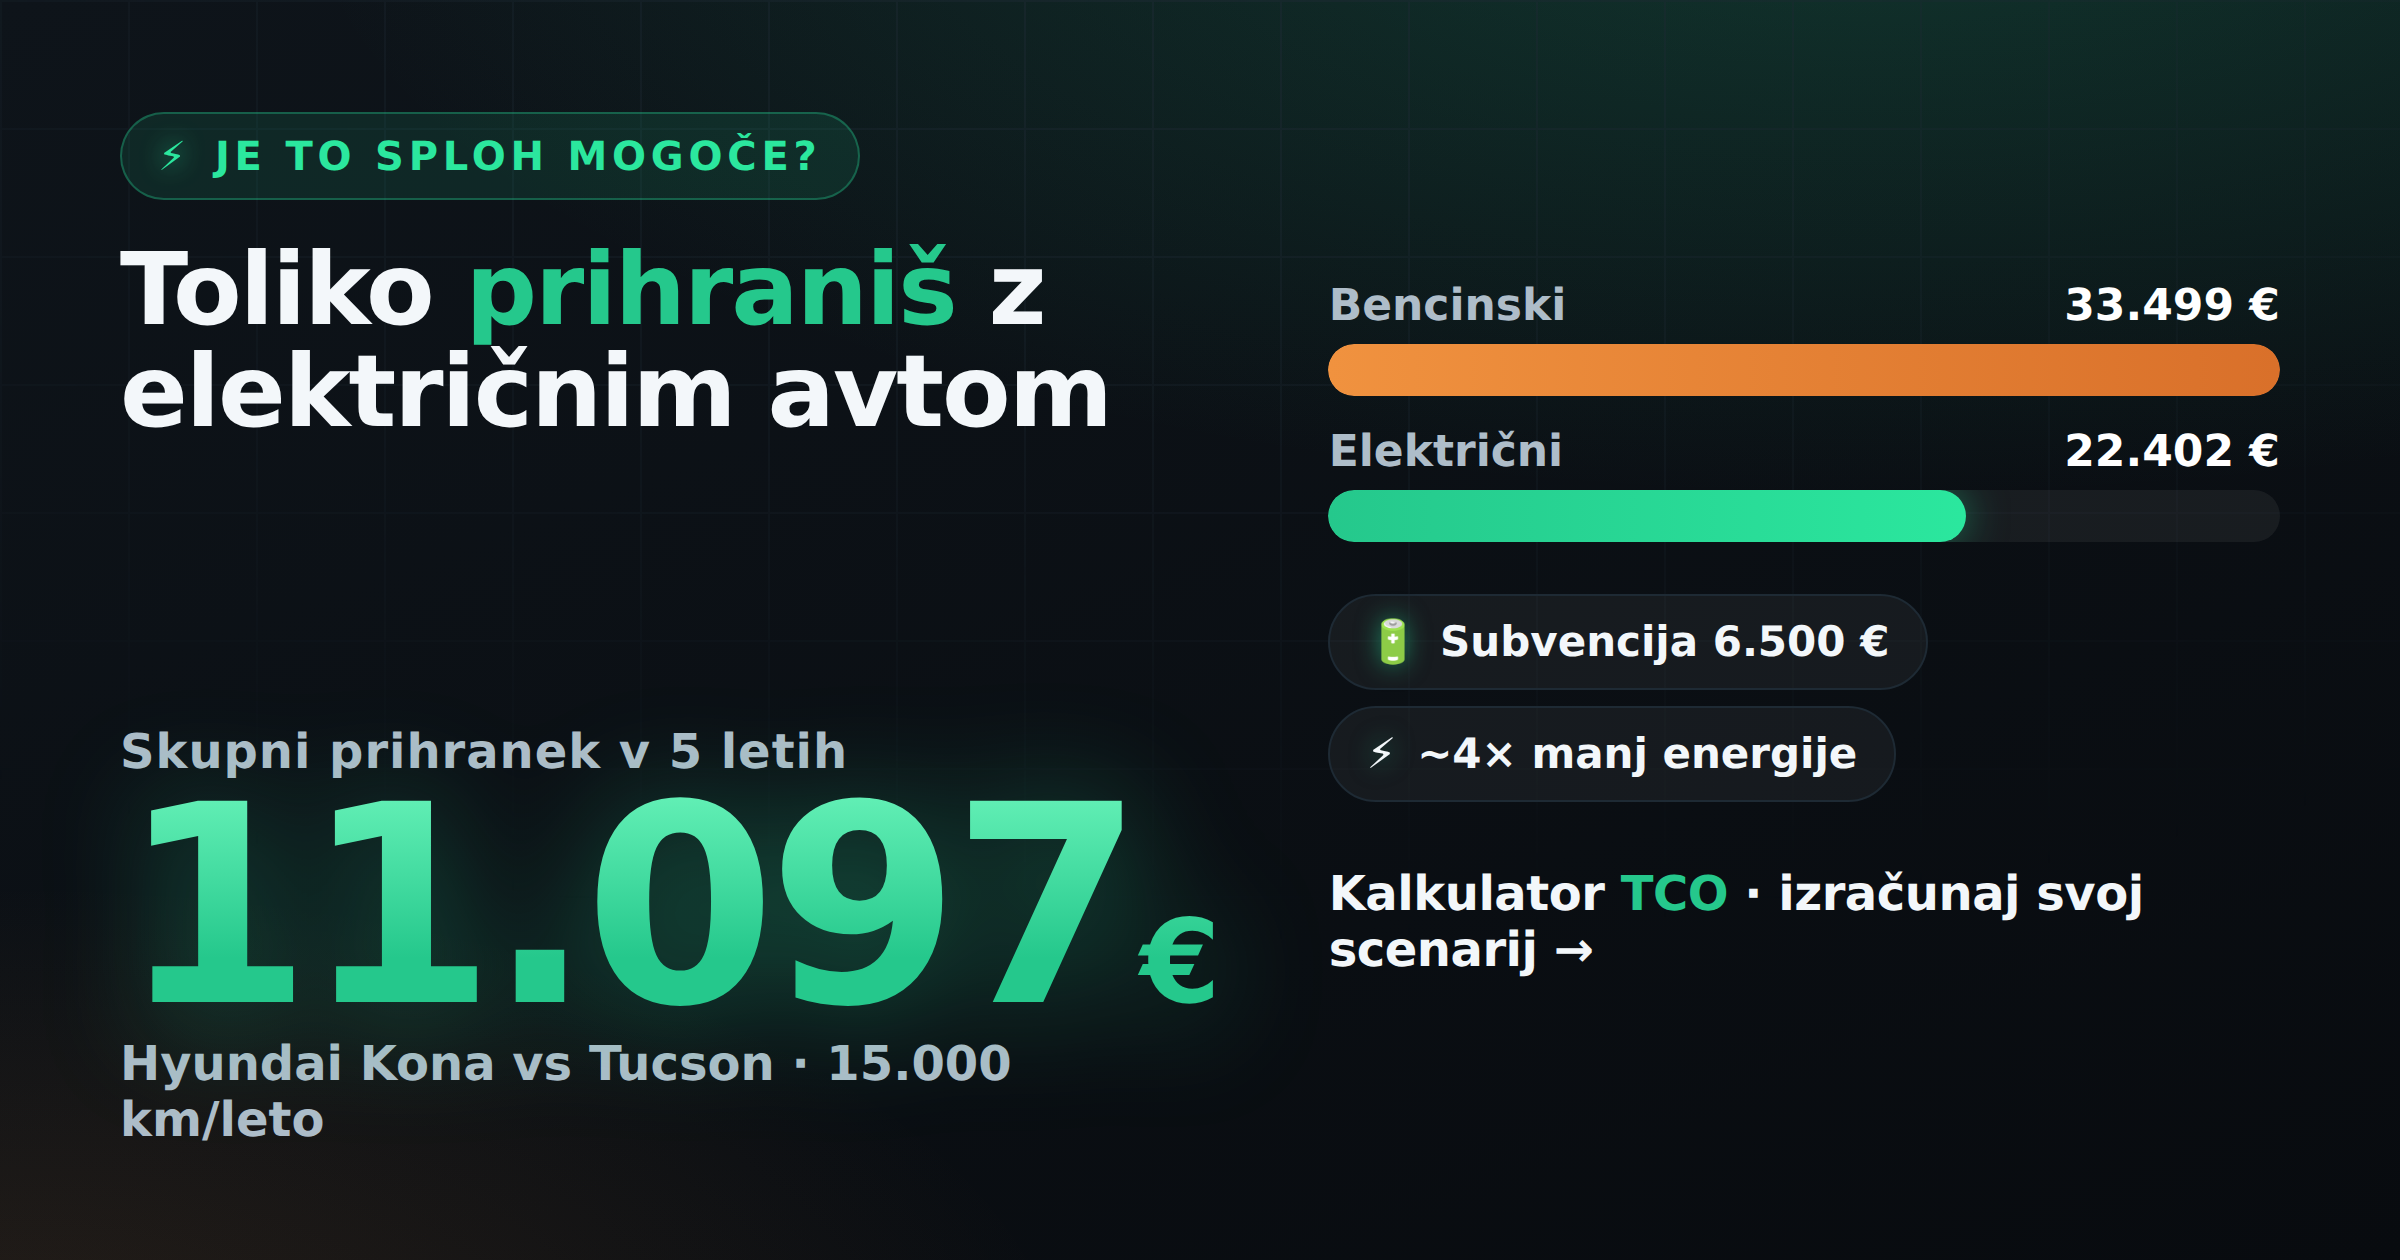
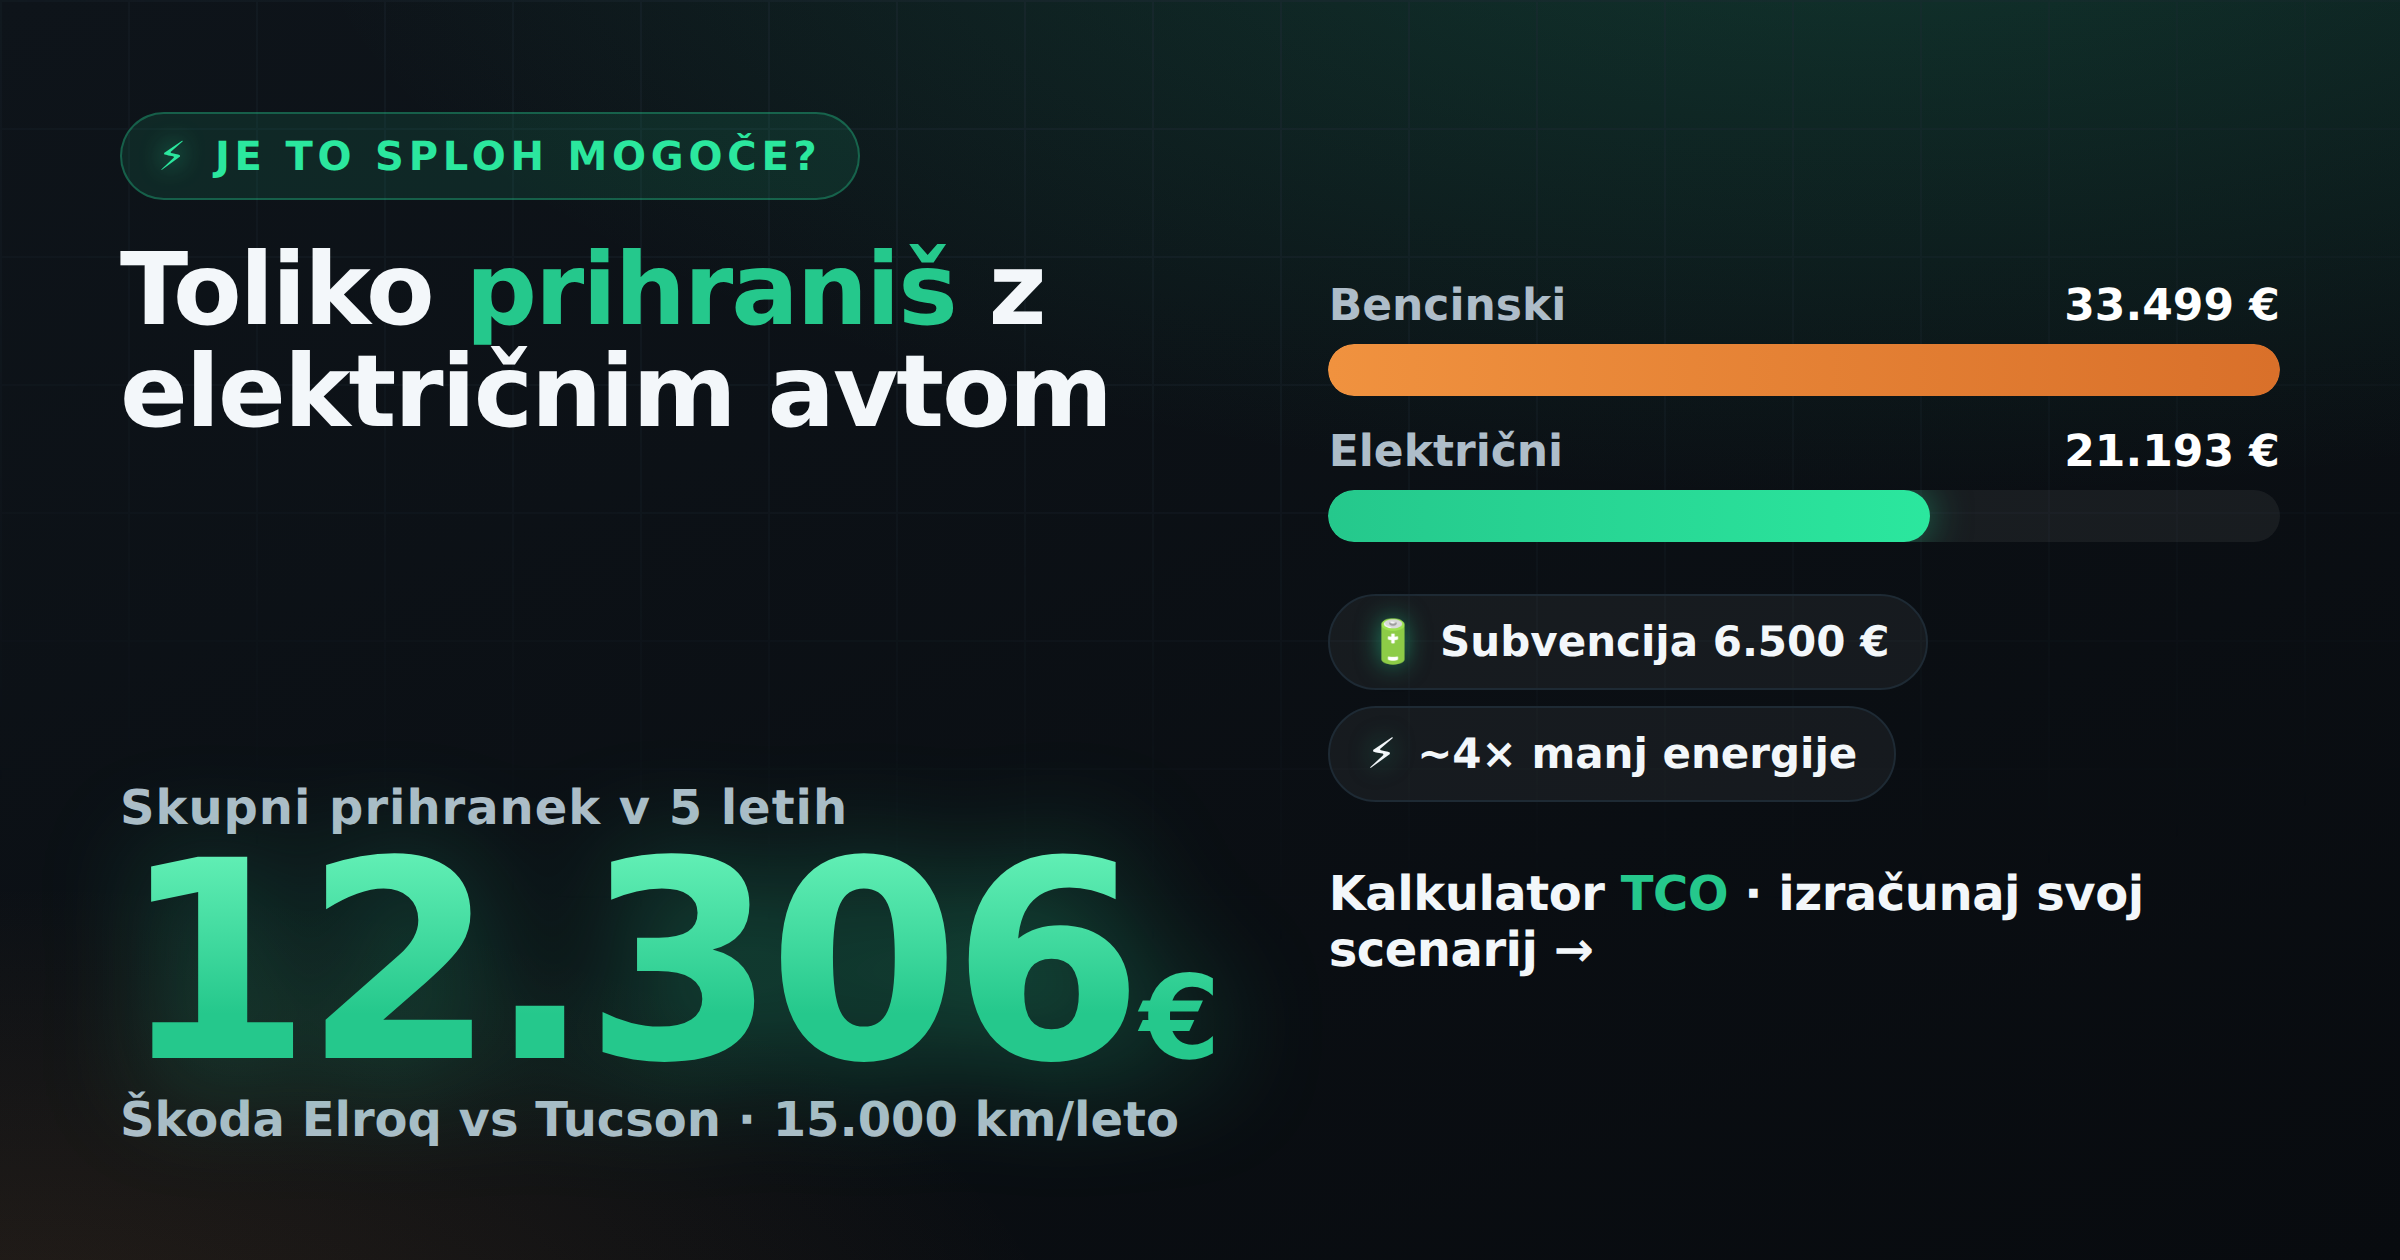
Regeneriraj share slike na privzeti par Tucson vs Škoda Elroq
Posodobljene številke: prihranek 12.306 EUR (205 EUR/mesec),
Škoda Elroq 21.193 EUR, 3,6 EUR/100 km.

Claude-Session: https://claude.ai/code/session_01SVEMj1KMtdUemBu9z58d9S

Changed region(s): [[0.0312, 0.5881, 0.5, 0.9286], [0.7812, 0.3714, 0.8438, 0.4333], [0.875, 0.3405, 0.9375, 0.3714]]

diff --git a/share-cards.html b/share-cards.html
@@ -127,8 +127,8 @@ body{background:#333;font-family:var(--sans);-webkit-font-smoothing:antialiased}
     <span class="eyebrow"><span class="spark">⚡</span>Elektrika ali bencin?</span>
     <div class="head">Toliko <span class="g">prihraniš</span><br>z električnim avtom</div>
     <div class="savelabel">Skupni prihranek v 5 letih</div>
-    <div class="bignum tnum"><span class="digits">11.097</span><span class="eur">€</span></div>
-    <div class="per">to je <b style="color:#fff">185 € na mesec</b> ali ~4× manj energije za enako pot</div>
+    <div class="bignum tnum"><span class="digits">12.306</span><span class="eur">€</span></div>
+    <div class="per">to je <b style="color:#fff">205 € na mesec</b> ali ~4× manj energije za enako pot</div>
     <div class="vs">
       <div class="side ice">
         <div class="lab"><span class="dot o"></span>Bencinski</div>
@@ -138,8 +138,8 @@ body{background:#333;font-family:var(--sans);-webkit-font-smoothing:antialiased}
       <div class="mid"></div>
       <div class="side ev">
         <div class="lab"><span class="dot g"></span>Električni</div>
-        <div class="car">Hyundai Kona Electric</div>
-        <div class="tot tnum">22.402 €</div>
+        <div class="car">Škoda Elroq 55 kWh</div>
+        <div class="tot tnum">21.193 €</div>
       </div>
     </div>
     <div class="foot">
@@ -153,7 +153,7 @@ body{background:#333;font-family:var(--sans);-webkit-font-smoothing:antialiased}
     <span class="eyebrow"><span class="spark">⚡</span>Je to sploh mogoče?</span>
     <div class="head">Toliko <span class="g">prihraniš</span> z električnim avtom</div>
     <div class="savelabel">Skupni prihranek v 5 letih</div>
-    <div class="bignum tnum"><span class="digits">11.097</span><span class="eur">€</span></div>
+    <div class="bignum tnum"><span class="digits">12.306</span><span class="eur">€</span></div>
     <div class="per">~4× manj energije · cenejši že ob nakupu</div>
     <div class="bars">
       <div class="barrow">
@@ -161,13 +161,13 @@ body{background:#333;font-family:var(--sans);-webkit-font-smoothing:antialiased}
         <div class="track"><div class="fill ice" style="width:100%"></div></div>
       </div>
       <div class="barrow">
-        <div class="bl"><span><span class="dot g" style="display:inline-block;vertical-align:middle;margin-right:.4em"></span>Električni — Kona</span><span class="amt tnum">22.402 €</span></div>
-        <div class="track"><div class="fill ev" style="width:66.9%"></div></div>
+        <div class="bl"><span><span class="dot g" style="display:inline-block;vertical-align:middle;margin-right:.4em"></span>Električni — Elroq</span><span class="amt tnum">21.193 €</span></div>
+        <div class="track"><div class="fill ev" style="width:63.3%"></div></div>
       </div>
     </div>
     <div class="pills">
       <span class="pill"><span class="ic">🔋</span>Subvencija 6.500 €</span>
-      <span class="pill"><span class="ic">⚡</span>3,5 € / 100 km</span>
+      <span class="pill"><span class="ic">⚡</span>3,6 € / 100 km</span>
       <span class="pill"><span class="ic">🛠</span>Manj servisov</span>
     </div>
     <div class="foot">
@@ -182,8 +182,8 @@ body{background:#333;font-family:var(--sans);-webkit-font-smoothing:antialiased}
       <span class="eyebrow"><span class="spark">⚡</span>Je to sploh mogoče?</span>
       <div class="head">Toliko <span class="g">prihraniš</span> z električnim avtom</div>
       <div class="savelabel">Skupni prihranek v 5 letih</div>
-      <div class="bignum tnum"><span class="digits">11.097</span><span class="eur">€</span></div>
-      <div class="per">Hyundai Kona vs Tucson · 15.000 km/leto</div>
+      <div class="bignum tnum"><span class="digits">12.306</span><span class="eur">€</span></div>
+      <div class="per">Škoda Elroq vs Tucson · 15.000 km/leto</div>
     </div>
     <div class="right">
       <div class="bars">
@@ -192,8 +192,8 @@ body{background:#333;font-family:var(--sans);-webkit-font-smoothing:antialiased}
           <div class="track"><div class="fill ice" style="width:100%"></div></div>
         </div>
         <div class="barrow">
-          <div class="bl"><span>Električni</span><span class="amt tnum">22.402 €</span></div>
-          <div class="track"><div class="fill ev" style="width:66.9%"></div></div>
+          <div class="bl"><span>Električni</span><span class="amt tnum">21.193 €</span></div>
+          <div class="track"><div class="fill ev" style="width:63.3%"></div></div>
         </div>
       </div>
       <div class="pills">
@@ -210,8 +210,8 @@ body{background:#333;font-family:var(--sans);-webkit-font-smoothing:antialiased}
       <span class="eyebrow"><span class="spark">⚡</span>Je to sploh mogoče?</span>
       <div class="head">Toliko <span class="g">prihraniš</span> z električnim avtom</div>
       <div class="savelabel">Skupni prihranek v 5 letih</div>
-      <div class="bignum tnum"><span class="digits">11.097</span><span class="eur">€</span></div>
-      <div class="per">Hyundai Kona vs Tucson · 15.000 km/leto · Slovenija 2026</div>
+      <div class="bignum tnum"><span class="digits">12.306</span><span class="eur">€</span></div>
+      <div class="per">Škoda Elroq vs Tucson · 15.000 km/leto · Slovenija 2026</div>
     </div>
     <div class="right">
       <div class="bars">
@@ -220,13 +220,13 @@ body{background:#333;font-family:var(--sans);-webkit-font-smoothing:antialiased}
           <div class="track"><div class="fill ice" style="width:100%"></div></div>
         </div>
         <div class="barrow">
-          <div class="bl"><span><span class="dot g" style="display:inline-block;vertical-align:middle;margin-right:.4em"></span>Električni</span><span class="amt tnum">22.402 €</span></div>
-          <div class="track"><div class="fill ev" style="width:66.9%"></div></div>
+          <div class="bl"><span><span class="dot g" style="display:inline-block;vertical-align:middle;margin-right:.4em"></span>Električni</span><span class="amt tnum">21.193 €</span></div>
+          <div class="track"><div class="fill ev" style="width:63.3%"></div></div>
         </div>
       </div>
       <div class="pills">
         <span class="pill"><span class="ic">🔋</span>Subvencija 6.500 €</span>
-        <span class="pill"><span class="ic">⚡</span>3,5 € / 100 km</span>
+        <span class="pill"><span class="ic">⚡</span>3,6 € / 100 km</span>
         <span class="pill"><span class="ic">🛠</span>Manj servisov</span>
       </div>
       <div class="foot">
